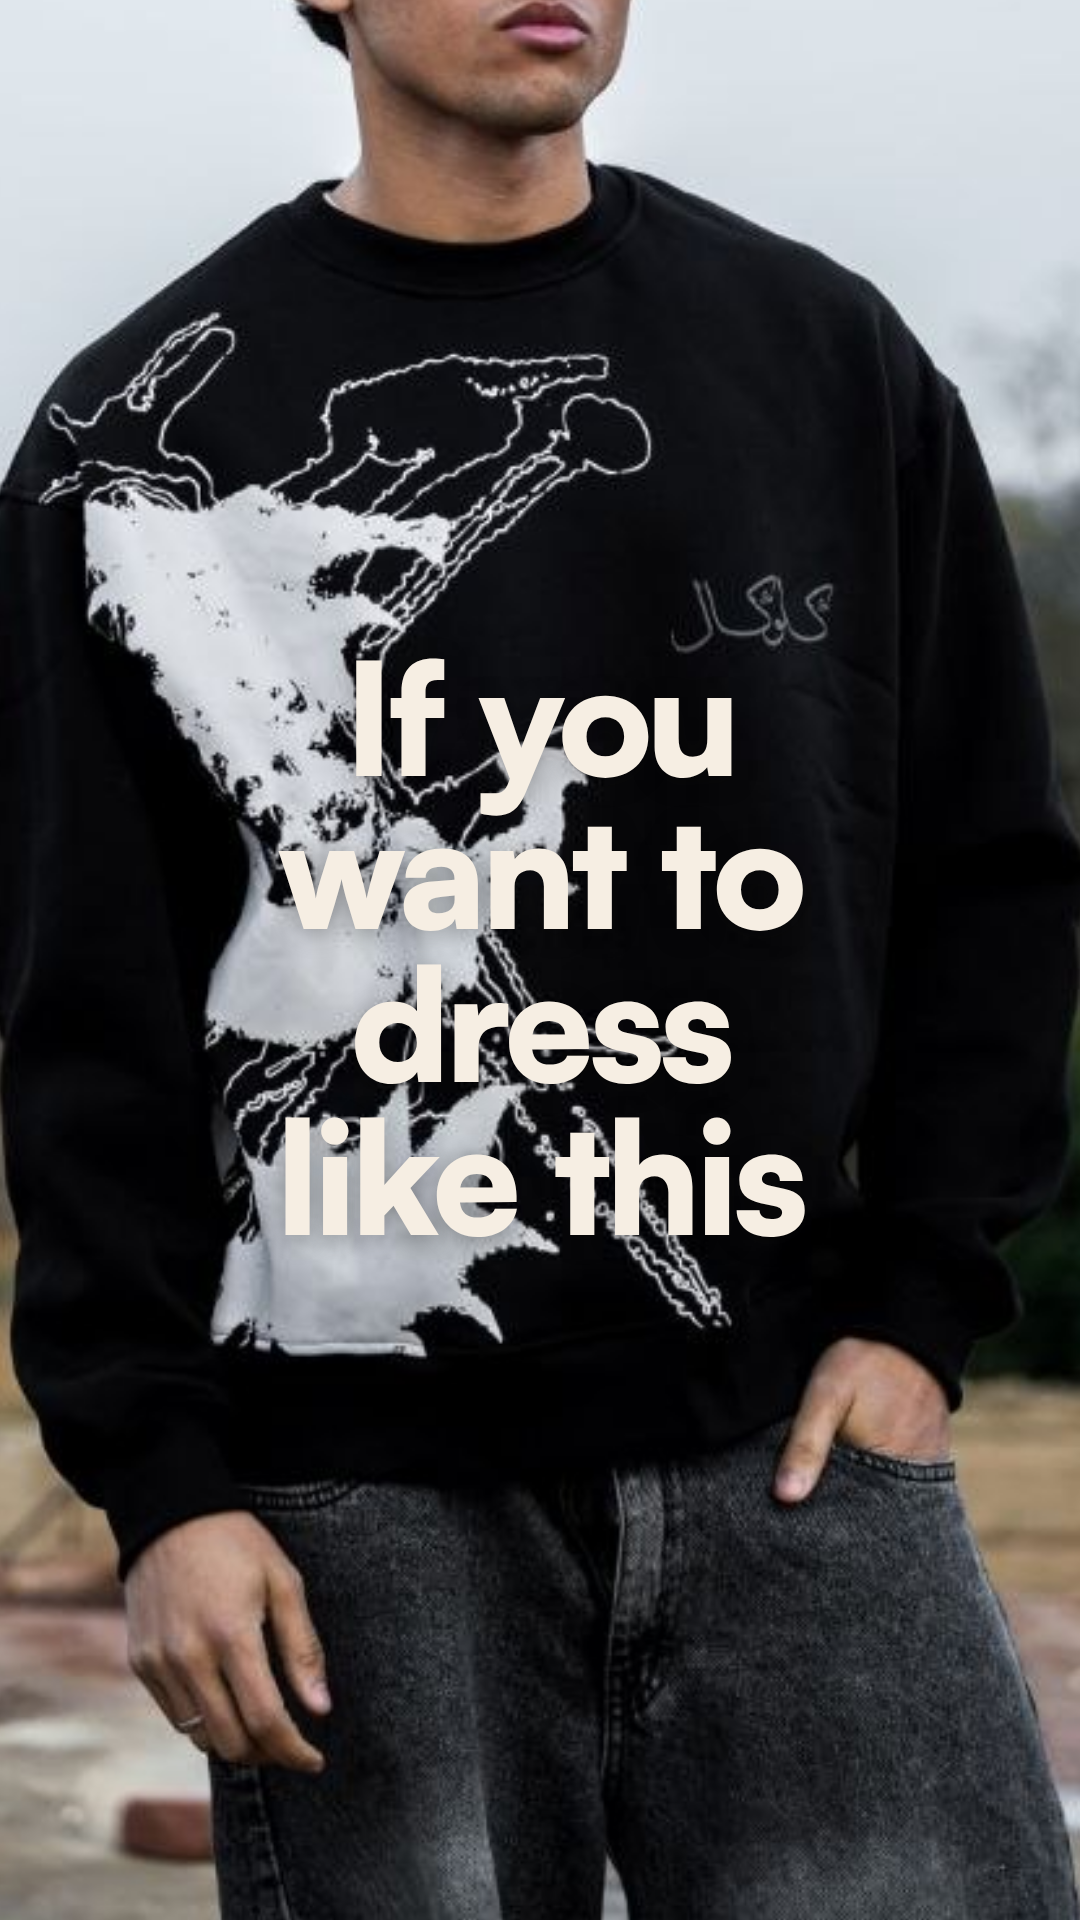
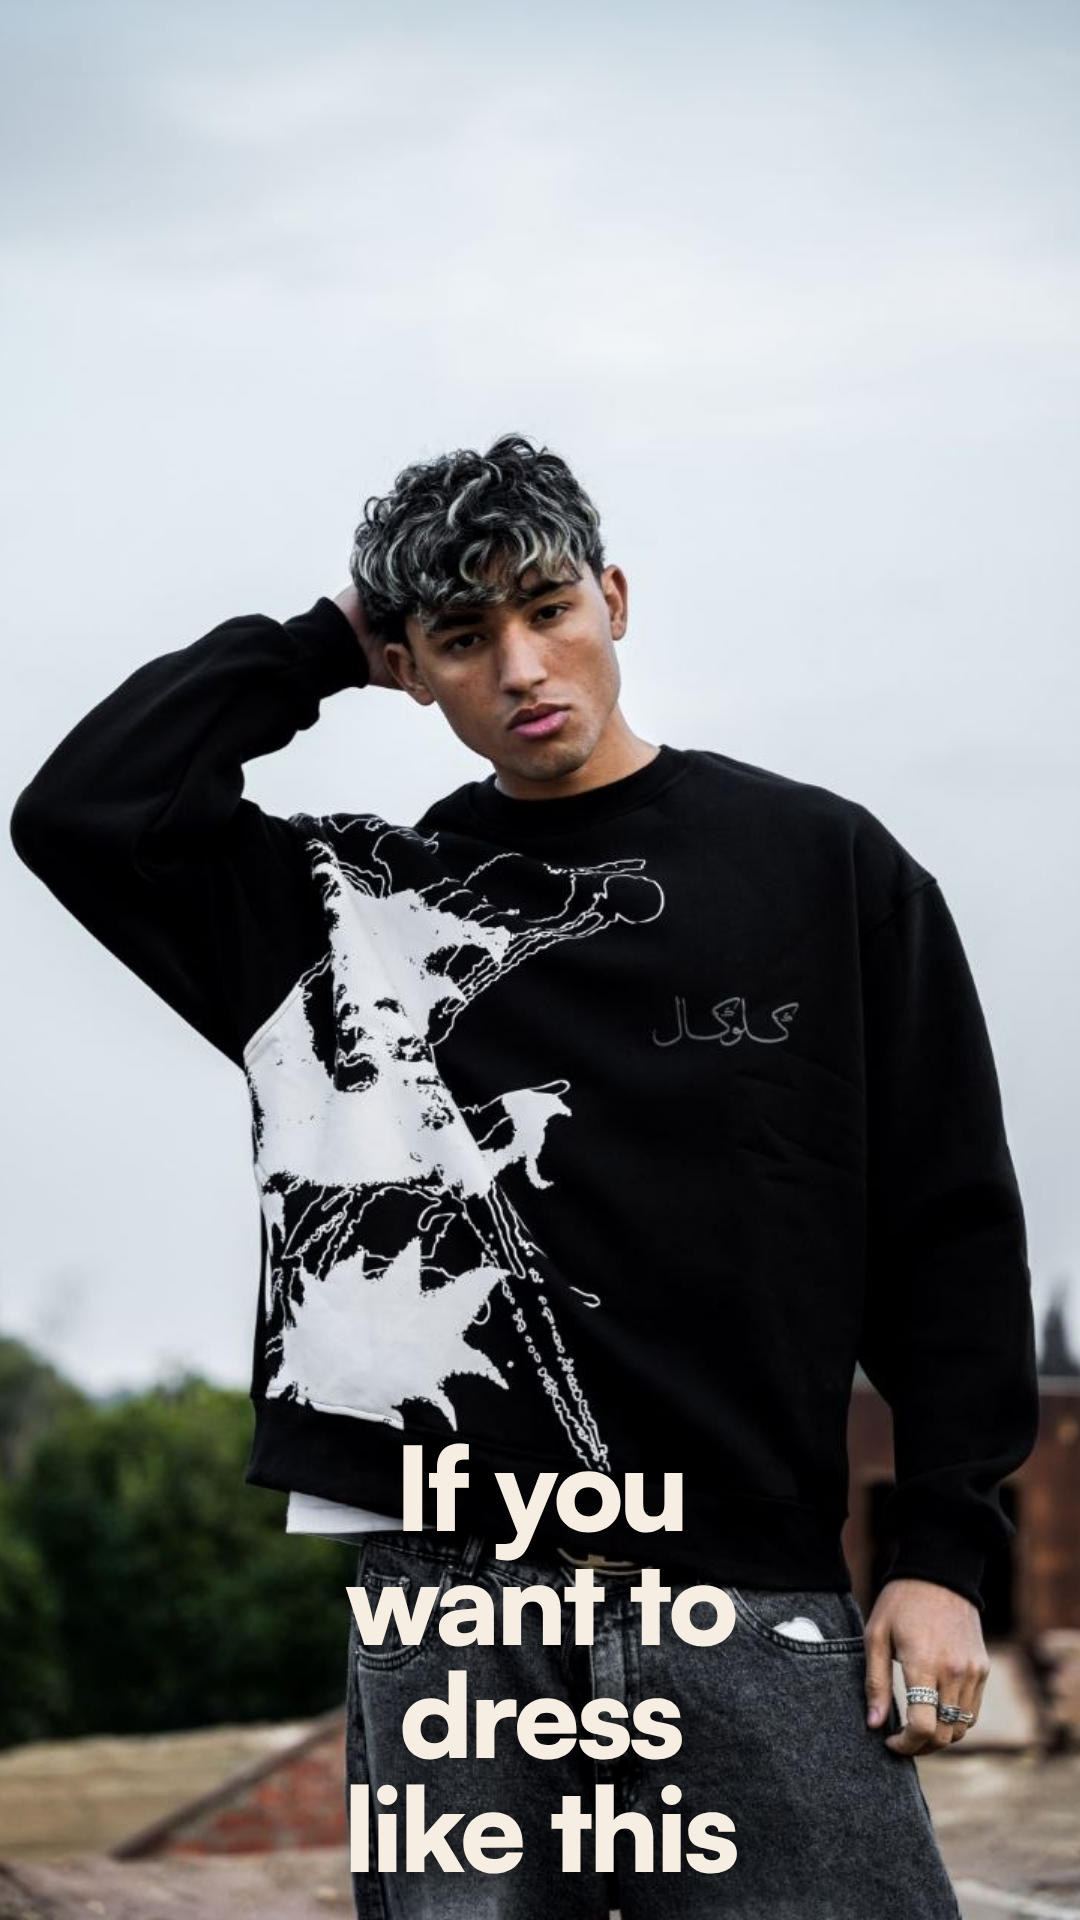
Rebuild TikTok-style image from sharper photo, caption below the print
Claude-Session: https://claude.ai/code/session_0134z9woteaCD6XRmPMXin1q

diff --git a/clocal-black-dragon-ads/src/tiktok-dress-like-this_9x16.html b/clocal-black-dragon-ads/src/tiktok-dress-like-this_9x16.html
@@ -3,13 +3,13 @@
 <style>
   /* TikTok-reference layout (face cropped out, outfit fills the frame, centred 4-line caption) in CLOCAL type & colour */
   .ph { left: 0; top: 0; width: 1080px; height: 1920px; }
-  .cap { position: absolute; left: 0; right: 0; top: 640px; text-align: center; font-family: "Satoshi"; font-weight: 900;
-         font-size: 156px; line-height: 0.98; letter-spacing: -0.03em; color: var(--cream);
+  .cap { position: absolute; left: 0; right: 0; top: 1430px; text-align: center; font-family: "Satoshi"; font-weight: 900;
+         font-size: 116px; line-height: 0.98; letter-spacing: -0.03em; color: var(--cream);
          text-shadow: 0 4px 24px rgba(10,10,10,.35); }
 </style></head>
 <body>
 <div class="ad story">
-  <div class="photo ph" data-src="photos/p15_man_sky_full.jpg" data-crop="232,540,415"></div>
+  <div class="photo ph" data-src="photos/p16_man_hand_hair.jpg" data-crop="66,0,720"></div>
   <div class="cap">If you<br>want to<br>dress<br>like this</div>
 </div>
 <script src="crop.js"></script>
